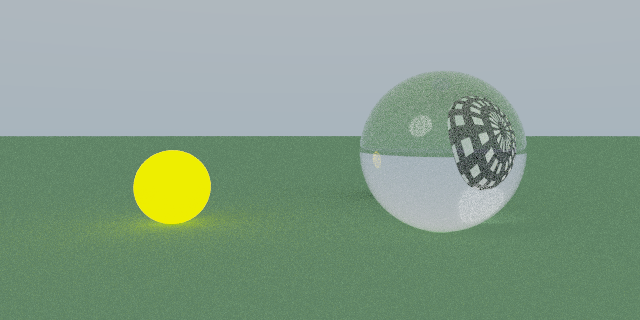
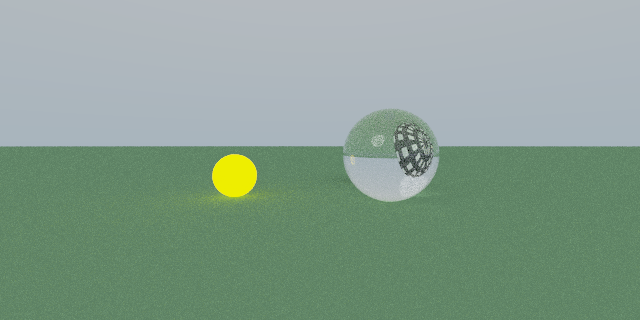
Slightly changed how camera works

Changed region(s): [[0.0, 0.2188, 1.0, 0.75]]

diff --git a/src/render.rs b/src/render.rs
@@ -79,24 +79,30 @@ fn bg_colour(d: Vec3) -> Colour {
 
 //// Whether something can render
 pub trait Render {
-    fn render(&self, eye: Vec3, looking: Vec3, global_up: Vec3, scene: Vec<Box<dyn Object>>, width: u32, height: u32, samples: u32, filename: String);
+    fn render(&self, scene: Vec<Box<dyn Object>>, width: u32, height: u32, samples: u32, filename: String);
 }
 
 //// A pinhole camera
 pub struct SimpleCamera {
+    // x-direction fov
     pub fov: f32,
+    pub position: Vec3,
+    pub looking: Vec3,
+    pub global_up: Vec3,
 }
 
 impl Render for SimpleCamera {
-    fn render(&self, eye: Vec3, looking: Vec3, global_up: Vec3, scene: Vec<Box<dyn Object>>, width: u32, height: u32, samples: u32, filename: String) {
+    fn render(&self, scene: Vec<Box<dyn Object>>, width: u32, height: u32, samples: u32, filename: String) {
         // The resulting image
         let mut finalimg: RgbImage = ImageBuffer::new(width, height);
         // The other 2 vectors for an orthonormal basis
-        let (side, up) = directions(looking, global_up);
+        let (side, up) = directions(self.looking, self.global_up);
 
         let mut direction: Vec3;
         let mut u: f32;
         let mut v: f32;
+
+        let h = 1./(self.fov/2.).tan();
 
         // The resulting colour at a point
         let mut col: Colour;
@@ -114,9 +120,10 @@ impl Render for SimpleCamera {
                 // Maybe these constants are off; unknown
                 u += (random_float(&mut seed) - 0.5)/(height as f32 - 1.)*2.;
                 v += (random_float(&mut seed) - 0.5)/(height as f32 - 1.)*2.;
-                direction = (3. * looking + u * side + v * up).normalise();
+                // originally h = 3.
+                direction = (h * self.looking + u * side + v * up).normalise();
     
-                col += trace(eye, direction, &scene, 4, &mut seed) //* (1./SAMPLES as f32);
+                col += trace(self.position, direction, &scene, 4, &mut seed) //* (1./SAMPLES as f32);
             }
     
             *pixel = (col / samples as f32).clamp().to_rgb();

diff --git a/src/main.rs b/src/main.rs
@@ -67,15 +67,13 @@ fn main() {
 
     const SAMPLES: u32 = 32;
 
-    // Set up the resulting image
-    let mut img: RgbImage = ImageBuffer::new(width, height);
 
     // Setting up the camera
     let eye = Vec3::new(0., 0.2, 0.);
     let looking = Vec3::new(0., -0.051, 1.);
     let global_up = Vec3::new(0., 1., 0.);
-    let (side, up) = directions(looking, global_up);
 
+    
     // Setting up the scene
     // Setting up the spheres
 
@@ -131,7 +129,12 @@ fn main() {
 
     //let mut seed: u32 = SystemTime::now().duration_since(UNIX_EPOCH).ok().unwrap().as_millis() as u32;
 
-    let cam = SimpleCamera {fov: 1.};
+    let cam = SimpleCamera {
+        fov: PI/3., //0.6435
+        position: eye,
+        looking: looking,
+        global_up: global_up,
+    };
 
-    cam.render(eye, looking, global_up, shapes, width, height, SAMPLES, "result2.png".to_string());
+    cam.render(shapes, width, height, SAMPLES, "new_result.png".to_string());
 }
